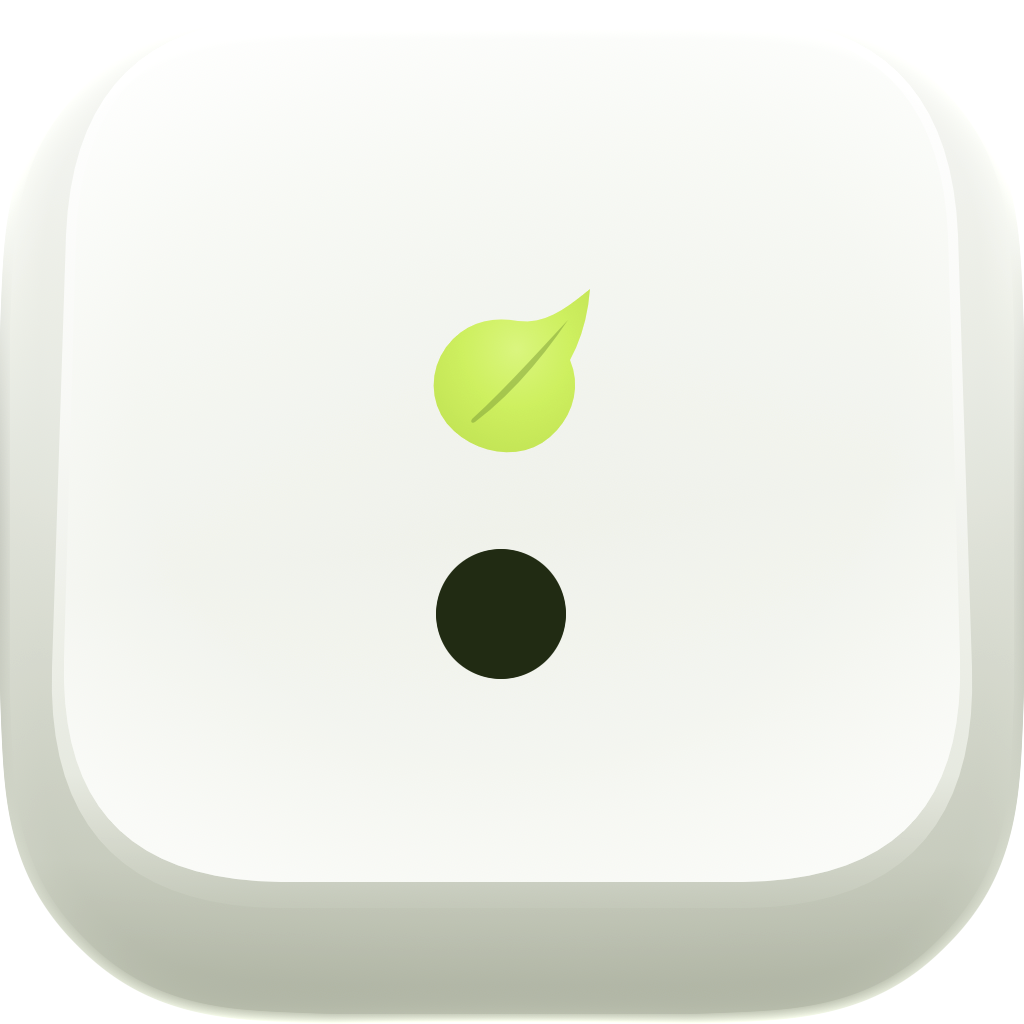
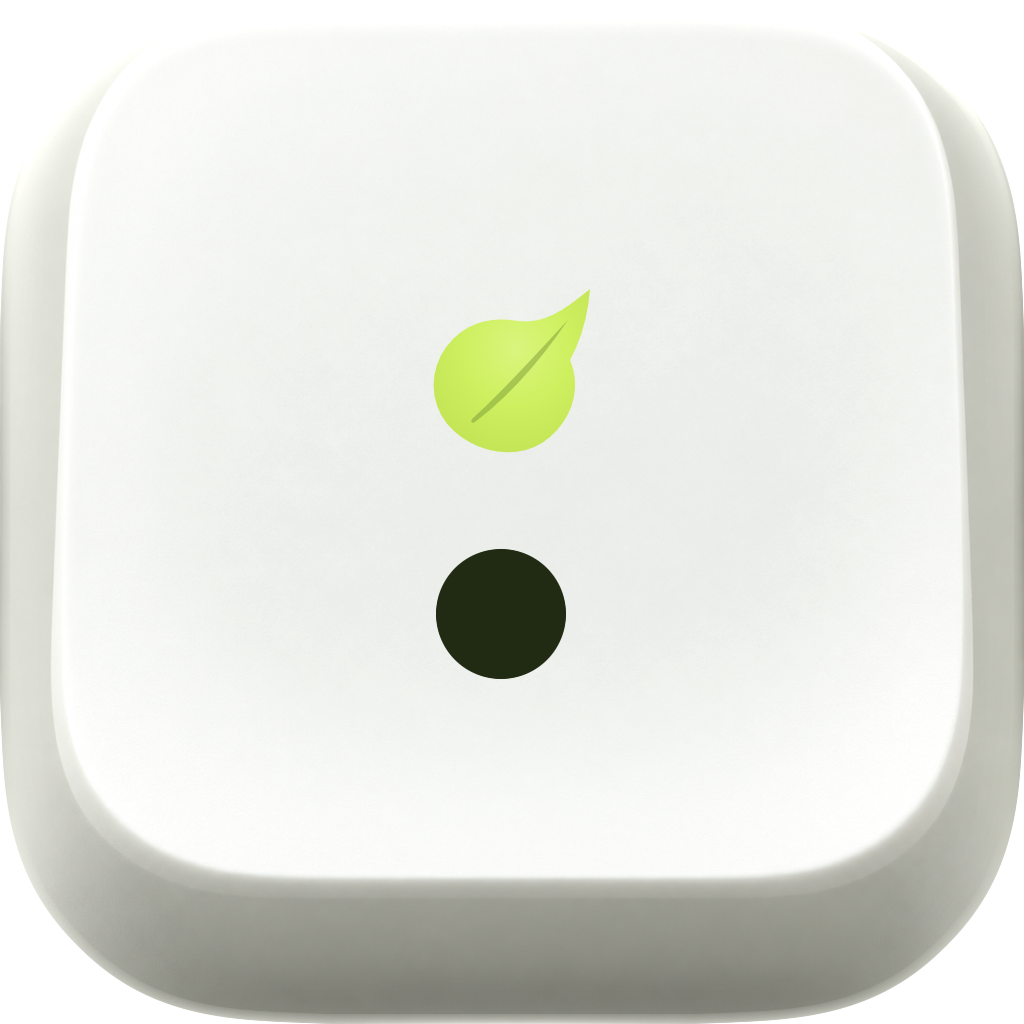
fix(ui): stop macOS 26 blurring the pane headers under the titlebar
The empty toolbar that gives the 52pt titlebar turns on the scroll edge
effect, which blurred the detail and sidebar headers and, with a clear
window, faded them to the desktop. Hide the top edge effect in the shell
and give the window an opaque surface-raised background.

Changed region(s): [[0.0938, 0.75, 0.9375, 1.0], [0.875, 0.0625, 1.0, 0.6875]]

diff --git a/Packages/KudzuUI/Sources/KudzuUI/Components/AppShell/KzAppShell.swift b/Packages/KudzuUI/Sources/KudzuUI/Components/AppShell/KzAppShell.swift
@@ -4,7 +4,7 @@ import SwiftUI
 /// How a `KzAppShell` relates to its window.
 public enum KzAppShellMode: Sendable {
     /// The shell is the content of a real window: it applies `KzWindowChrome` (hidden title and toolbar,
-    /// full-size content, clear background) and the system draws the traffic lights.
+    /// full-size content, opaque background) and the system draws the traffic lights.
     case window
     /// The shell is shown inside something else (the gallery, a snapshot): the window is left alone,
     /// and the shell draws mock traffic lights, rounded corners and a window shadow.
@@ -16,7 +16,7 @@ public enum KzAppShellMode: Sendable {
 ///
 /// Widths come from `size-sidebar` (220) and `size-list` (300); the detail pane takes the rest. Every
 /// pane's header row is `size-titlebar` tall, so the headers line up with the traffic lights; build
-/// them with `KzListHeader` and `KzPaneHeader`. In `.window` mode the shell has no fill, so the
+/// them with `KzListHeader` and `KzPaneHeader`. In `.window` mode the sidebar uses behind-window glass, so the
 /// sidebar's backdrop blur reaches the desktop as a macOS sidebar does.
 public struct KzAppShell<Sidebar: View, SidebarHeader: View, SidebarFooter: View, ListPane: View, Detail: View>: View {
     private let mode: KzAppShellMode
@@ -68,6 +68,7 @@ public struct KzAppShell<Sidebar: View, SidebarHeader: View, SidebarFooter: View
             // The 52pt titlebar would otherwise be a top safe-area inset and push every pane down.
             shell
                 .ignoresSafeArea()
+                .modifier(KzHiddenTopScrollEdgeEffect())
                 .kzWindowChrome()
         case .embedded:
             let window = RoundedRectangle(cornerRadius: KzRadius.xl, style: .continuous)
@@ -166,5 +167,17 @@ private struct KzMockTrafficLights: View {
         .padding(.top, KzWindowChrome.Lights.top)
         .allowsHitTesting(false)
         .accessibilityHidden(true)
+    }
+}
+
+/// Turns off the macOS 26 scroll edge effect under the titlebar. Every pane draws its own opaque
+/// 52pt header there, and the effect would blur those headers (and the sidebar's) into a band.
+private struct KzHiddenTopScrollEdgeEffect: ViewModifier {
+    func body(content: Content) -> some View {
+        if #available(macOS 26.0, *) {
+            content.scrollEdgeEffectHidden(true, for: .top)
+        } else {
+            content
+        }
     }
 }

diff --git a/Packages/KudzuUI/Sources/KudzuUI/Components/AppShell/KzWindowChrome.swift b/Packages/KudzuUI/Sources/KudzuUI/Components/AppShell/KzWindowChrome.swift
@@ -2,7 +2,7 @@ import AppKit
 import SwiftUI
 
 /// Window chrome for Kudzu's one window: no title, no toolbar, traffic lights kept, content drawn
-/// edge to edge and a clear window background, so the sidebar's behind-window blur reaches the desktop.
+/// edge to edge on an opaque `surface-raised` window; the sidebar's behind-window blur still reaches the desktop.
 ///
 /// ## Traffic-light alignment
 ///
@@ -64,11 +64,11 @@ public enum KzWindowChrome {
             window.toolbar = toolbar
         }
         window.toolbarStyle = .unified
-        // No fill: the sidebar's `.behindWindow` visual effect needs a transparent window to blur the desktop.
-        window.isOpaque = false
-        window.backgroundColor = .clear
-        // A transparent window computes its shadow from what is drawn, which isn't settled yet.
-        DispatchQueue.main.async { [weak window] in window?.invalidateShadow() }
+        // An opaque fill. The sidebar's `.behindWindow` effect still blurs the desktop (as in Finder), and
+        // anything macOS fades under the titlebar (the macOS 26 scroll edge effect) fades into the
+        // window colour instead of showing the desktop through a see-through strip.
+        window.isOpaque = true
+        window.backgroundColor = KzColorToken.surfaceRaised.nsColor
     }
 
     /// The close button's vertical centre measured from the top of the window, or `nil` without a close button.

diff --git a/Packages/KudzuUI/Tests/KudzuUITests/Components/WindowTests.swift b/Packages/KudzuUI/Tests/KudzuUITests/Components/WindowTests.swift
@@ -44,8 +44,8 @@ import Testing
         #expect(window.styleMask.contains(.fullSizeContentView))
         #expect(window.toolbar?.identifier == KzWindowChrome.toolbarIdentifier)
         #expect(window.toolbar?.items.isEmpty == true)
-        #expect(window.isOpaque == false)
-        #expect(window.backgroundColor == .clear)
+        #expect(window.isOpaque)
+        #expect(window.backgroundColor == KzColorToken.surfaceRaised.nsColor)
         #expect(window.standardWindowButton(.closeButton)?.isHidden == false)
 
         // Idempotent, and an app's own toolbar is respected.
@@ -66,7 +66,7 @@ import Testing
             await settle(0.05)
         }
         #expect(window.titleVisibility == .hidden)
-        #expect(window.isOpaque == false)
+        #expect(window.isOpaque)
         #expect(window.toolbar != nil)
     }
 }

diff --git a/design/app-icon/MATERIAL-PROMPTS.md b/design/app-icon/MATERIAL-PROMPTS.md
@@ -1,0 +1,20 @@
+# Keycap material refinement
+
+Generated with the built-in image generation tool, then composed under the original SVG legend in Icon Composer.
+
+## Initial material prompt
+
+Use case: sketch-to-render.
+Asset type: square macOS/iOS app icon material layer for Icon Composer.
+Edit target: the supplied Kudzu keycap icon.
+Primary request: turn the illustrated keycap into a convincingly real premium low-profile keyboard key, beautifully restrained Apple hardware studio photography. REMOVE BOTH THE GREEN LEAF AND THE DARK DOT COMPLETELY: the key must be blank, because the exact original colon will be overlaid later as a separate vector printing layer.
+Preserve the original upright symmetrical silhouette, almost overhead camera looking very slightly from the front, and full-canvas occupancy. The key is the entire app icon, not a smaller object on a background. Its outer edges touch all four edges of the square image, with transparent corners outside its continuous rounded-square silhouette.
+Material: warm paper-white soft-touch PBT plastic, like unglazed porcelain, with extremely fine almost invisible microtexture. Paper-white face around #F6F7F2, softly shaded neutral sides through #E3E6DC to #AEB4A0. Absolutely no green colour accent anywhere on the blank key.
+Shape: a wide sculpted top face, very gently concave/dished, a single continuous moulded object. Replace the hard illustrated inner outlines with broad soft rounded transitions and realistic light falloff. The top face sits high with a tiny sliver above; left and right skirts are subtle; the front skirt is visible over approximately the bottom 12 percent. Soft occlusion beneath the rounded lip, softened front corners, a discreet contact-darkening at the very bottom edge. No layered plates, seams or inset rectangular panel.
+Lighting: large diffuse softbox above-left and very soft fill on the right, believable continuous shading, broad low-contrast highlights, calm premium product photograph. Depth should come from geometry and soft light, not shiny highlights.
+Avoid: text, marks, legend, dots, leaves, stems, symbols, outlines, strokes, dramatic perspective, tilt, floating key, black background, cast shadow outside key, glossy plastic, glass, chrome, inflated toy, harsh bevel bands, noisy texture, extra elements.
+Output only the blank keycap with transparent corners, square 1024x1024.
+
+## Final refinement prompt
+
+Edit this blank keycap material image for use as the bottom layer in Apple Icon Composer. Keep the same blank warm paper-white key, soft dished surface, realistic microfine matte PBT texture, diffuse top-left light, soft rounded lip and muted gray-olive front wall. Refine it into premium product photography with a little more natural occlusion and curvature along the front skirt. MOST IMPORTANT: make the image entirely opaque and full bleed: extend the outer skirt material smoothly to fill ALL four square corners and all edges. There must be no transparent pixels, no white or black background, no halo, no irregular cutout, no outside shadow. Apple will apply its own rounded-square silhouette afterward. The central face stays rounded and softly curved exactly as shown. Make the bottom front wall end flush at the bottom image edge with natural gray shade. Keep the face continuous with its skirt with smooth transitions, no outline or separate inset plate. Absolutely no legend or marks; the exact vector colon will be applied separately. Do not add anything else. Square image.
